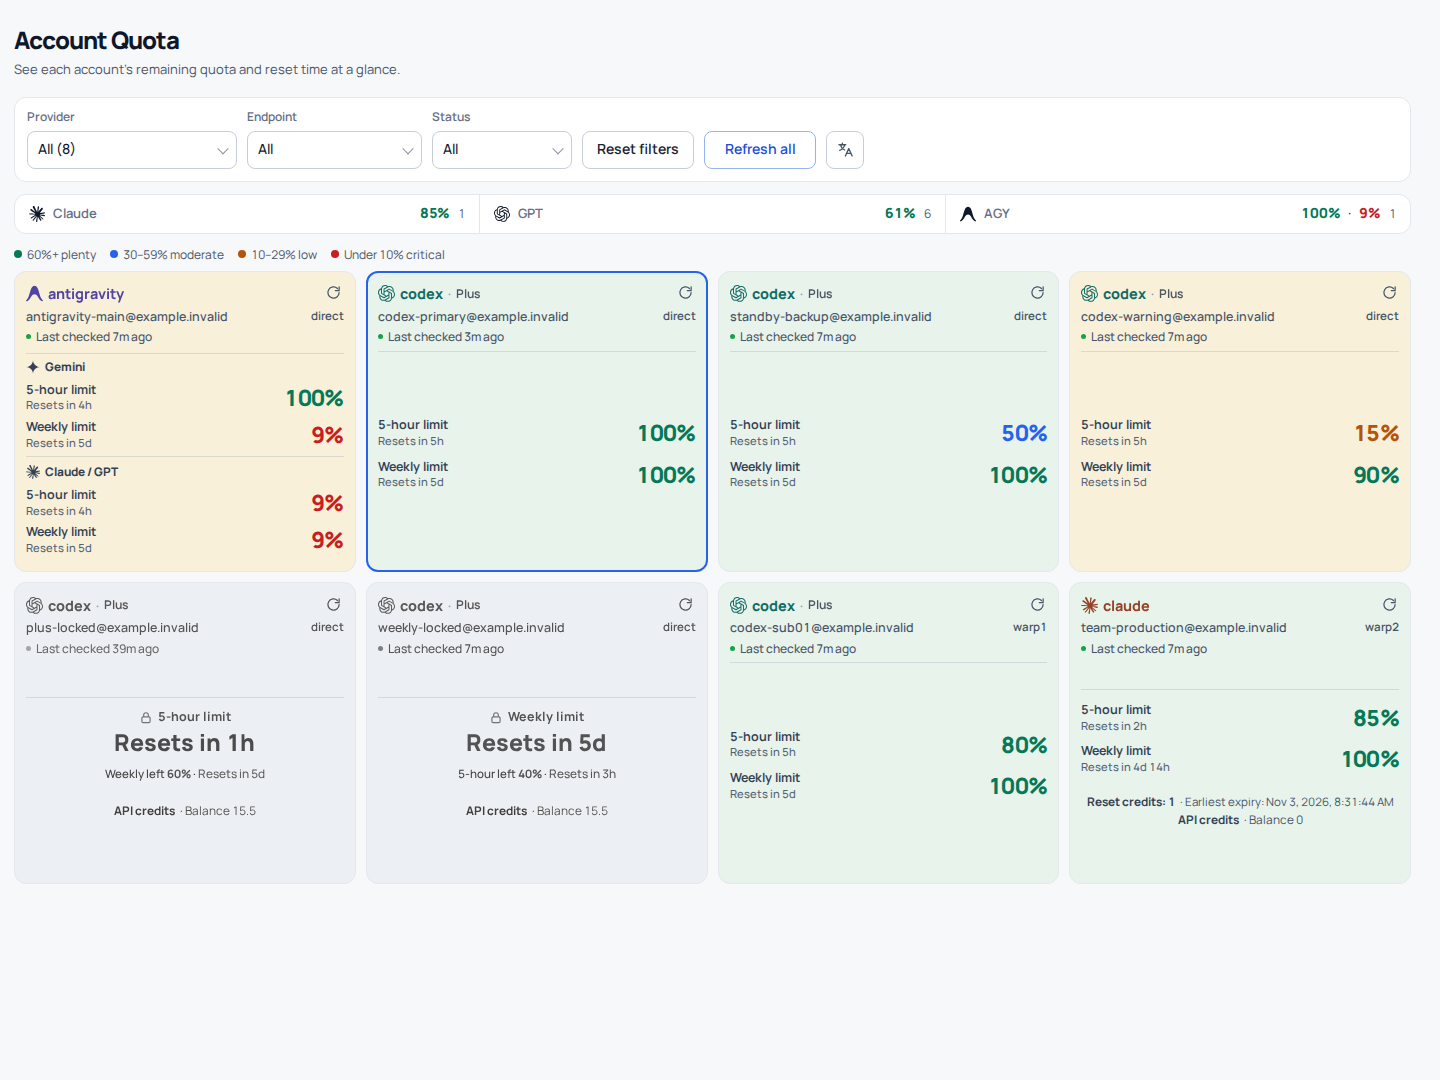
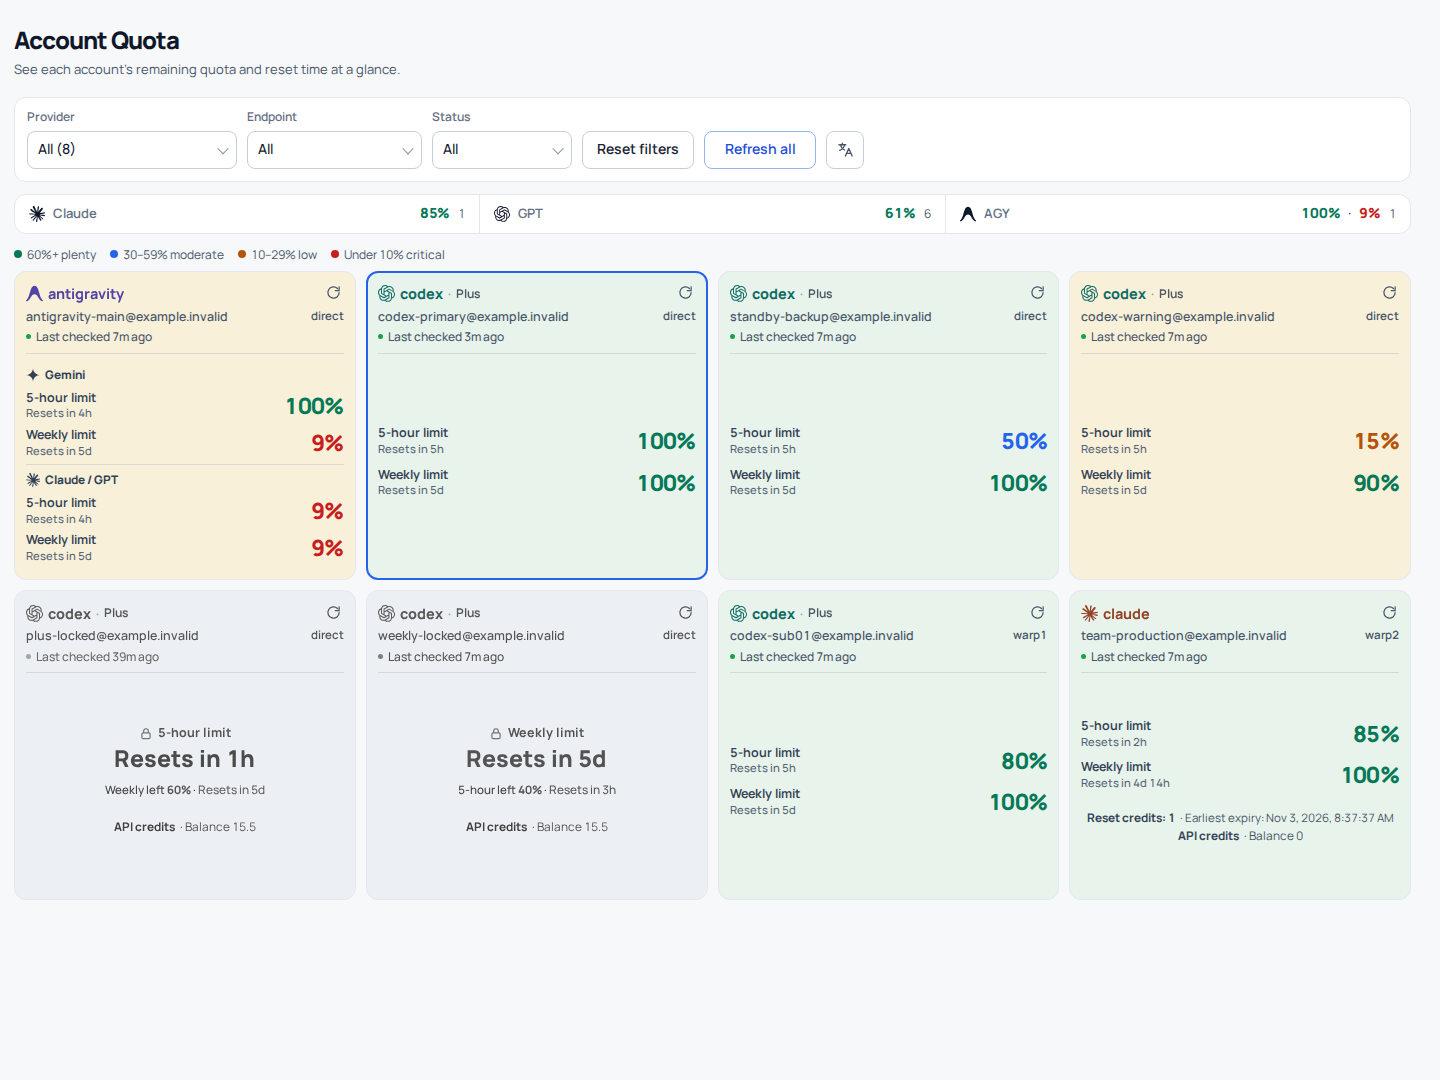
style(dashboard): one header divider drawn by the card, same position everywhere
- the line under the header is the card heading's bottom border, identical for antigravity, GPT and Claude
- body blocks no longer draw their own top lines, so it is at the same y in every state
  (normal, locked, empty, error) and at every width
- README screenshots refreshed

diff --git a/internal/dashboard/style.css b/internal/dashboard/style.css
@@ -673,3 +673,13 @@
   .account-card[data-locked="true"]:not([data-provider="antigravity"]) .quota-lock-title .quota-lock-icon { color: #64748b; }
   .account-card[data-locked="true"]:not([data-provider="antigravity"]) .quota-lock-title > span { color: #475569; }
   .account-card[data-locked="true"] .quota-lock-weekly, .account-card[data-locked="true"] .quota-lock-weekly small { color: #526174; }
+
+  /* ===================== One divider, drawn by the card itself =====================
+     The line under the header is a bottom border of .card-heading, identical for every provider and state
+     (antigravity, GPT, Claude; locked, empty, error, normal). The body no longer draws its own top lines. */
+  .card-heading { padding-bottom: 8px; border-bottom: 1px solid rgba(148,163,184,0.30); }
+  .account-card .card-quota, .account-card[data-provider="antigravity"] .card-quota,
+  .account-card:not([data-provider="antigravity"]) .card-quota { border-top: 0; }
+  .account-card .ag-family-stack > .ag-family-section:first-child,
+  .account-card .ag-family-section.is-locked:first-child { border-top: 0; margin-top: 0; padding-top: 0; }
+  .account-card .quota-group { border-top: 0; }
